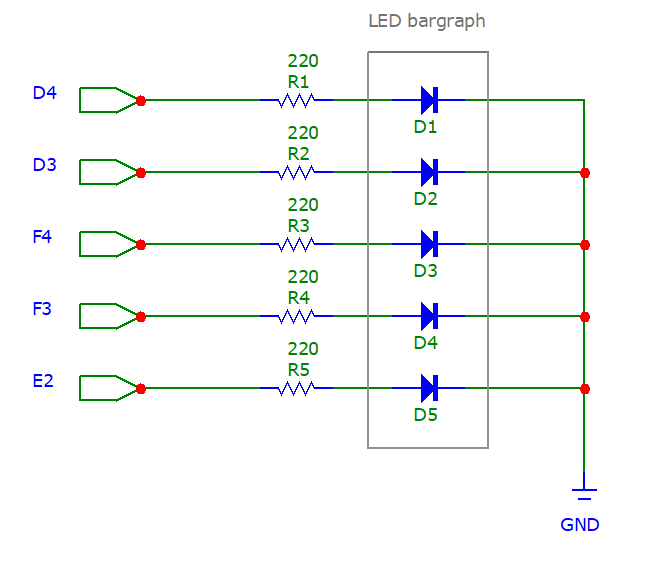
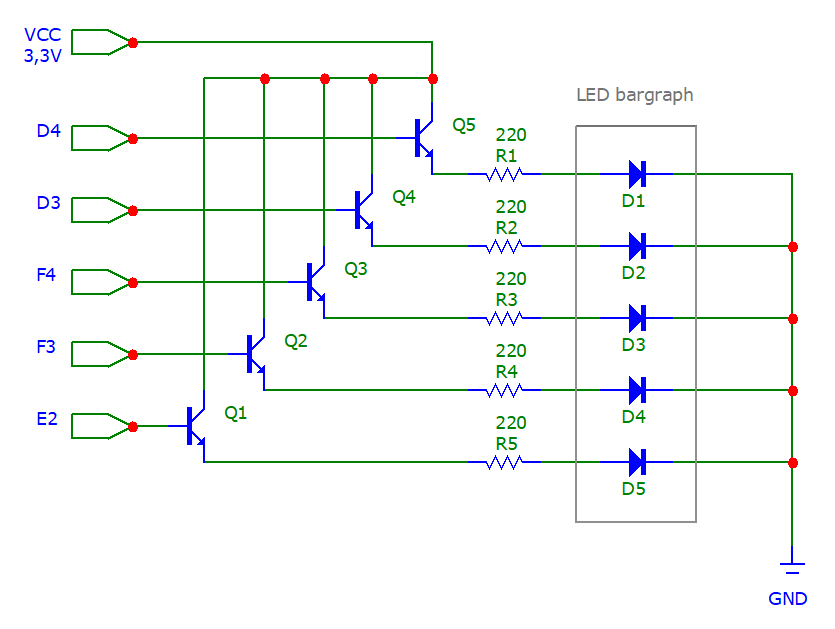
de1

diff --git a/Labs/projekt/README.md b/Labs/projekt/README.md
@@ -23,6 +23,7 @@
  - Resistor 220Ω
  - Resistor 1000Ω
  - Resistor 2000Ω
+ - Transistor NPN
  - Voltage Source +5V
 
 ### Datasheets of used components
@@ -30,6 +31,7 @@
 - [HC-SR04](https://cdn.sparkfun.com/datasheets/Sensors/Proximity/HCSR04.pdf)
 - [LED baragraph](https://docs.broadcom.com/doc/5965-6545E)
 - [Resisitor](https://docs-emea.rs-online.com/webdocs/0e29/0900766b80e29d33.pdf)
+- [Transistor NPN](https://www.onsemi.com/pdf/datasheet/2n3903-d.pdf)
 
 ### Board **Arty A7-35T**
 
